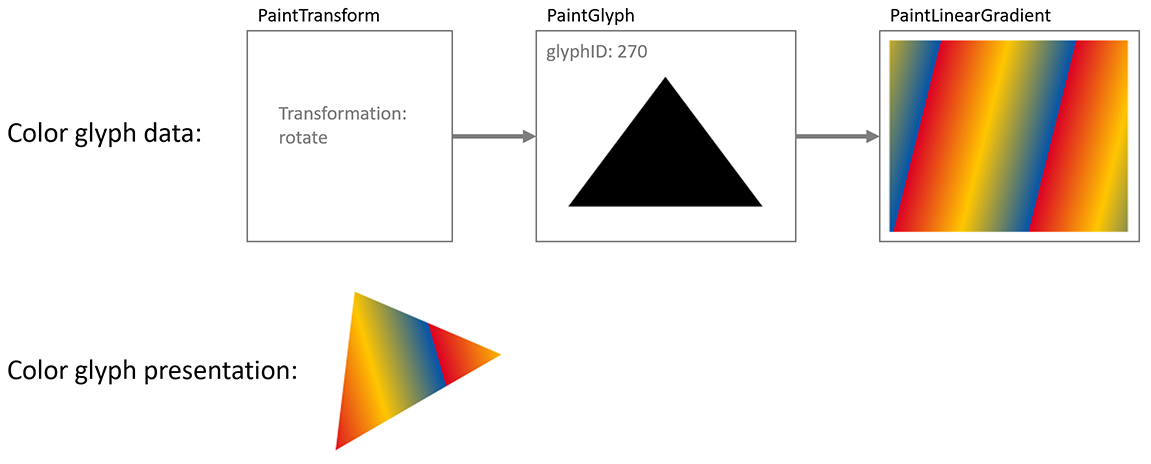
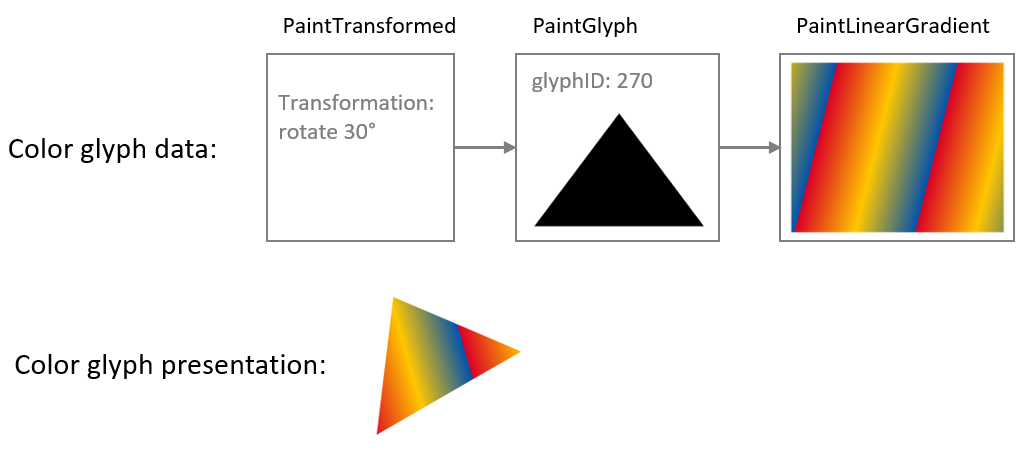
Update Transformations per PR comments

diff --git a/colr-gradients-spec.md b/colr-gradients-spec.md
@@ -1249,12 +1249,9 @@ A PaintGlyph table on its own does not add content: if there is no child paint t
 **5.7.11.1.5 Transformations**
 
 A PaintTransform table can be used within a color glyph description to apply an
-affine transformation matrix. Supported transformations using a matrix can be a 
-combination of: scale, skew, mirror, rotate, or translate. The transformation is
-applied to all nested paints in the child sub-graph, including a nested sub-graph
-referenced using a PaintColrGlyph table (see 5.7.11.1.7.3).
-
-NOTE: Affine transformations have the property that parallel lines remain parallel.
+affine transformation matrix. Transformations supported by a matrix can be a
+combination of scale, skew, mirror, rotate, or translate. The transformation is
+applied to all nested paints in the child sub-graph.
 
 The effect of a PaintTransform table is illustrated in figure 5.21: a PaintTransform is used to specify a rotation, and both the glyph outline and gradient in the sub-graph are rotated.
 
@@ -1262,7 +1259,7 @@ The effect of a PaintTransform table is illustrated in figure 5.21: a PaintTrans
 
 **Figure 5.21 A rotation transformation rotates the fill content defined by the child sub-graph.**
 
-If another PaintTransform table occurs within the child sub-graph of the first PaintTransform table, then the other PaintTransform also applies to its child sub-graph. For the sub-sub-graph, the two transformations are combined. To illustrate this, the example in figure 5.21 is extended in figure 5.22 by inserting a mirroring transformation between the PaintGlyph and PaintLinearGradient tables: the glyph outline is rotated as before, but the gradient is mirrored in its (pre-rotation) y-axis as well as being rotated.
+If another PaintTransform table occurs within the child sub-graph of the first PaintTransform table, then the other PaintTransform also applies to its child sub-graph. For the sub-sub-graph, the two transformations are combined. To illustrate this, the example in figure 5.21 is extended in figure 5.22 by inserting a mirroring transformation between the PaintGlyph and PaintLinearGradient tables: the glyph outline is rotated as before, but the gradient is mirrored in its (pre-rotation) y-axis as well as being rotated. Notice that both visible elements—the shape and the gradient fill—are affected by the rotation, but only the gradient is affected by the mirroring.
 
 ![Combined effects of a transformation nested within the child sub-graph of another transformation.](images/colr_transform_glyph_transform_gradient.png)
 
@@ -1270,9 +1267,9 @@ If another PaintTransform table occurs within the child sub-graph of the first P
 
 The affine transformation is specified in a PaintTransform table as matrix elements. See <span style="color:red">5.7.11.2.x</span> for format details.
 
-Whereas the PaintTransformed table supports several types of transforms, the PaintRotate and PaintSkew tables support specific transformations: rotation and skew. The significant difference of these paint formats is that rotations and skews are specified as angles, in counter-clockwise degrees. In many cases, specifying the rotation or skew as an angle can be more convenient. It can also have a signficant benefit in variable fonts if an angle of skew or rotation needs to vary: it is much easier to implement variation of angles when specified directly than when specified using matrix elements.
+Whereas the PaintTransformed table supports several types of transforms, the PaintRotate and PaintSkew tables support specific transformations: rotation and skew. The significant difference of these paint formats is that rotations and skews are specified as angles, in counter-clockwise degrees.
 
-The PaintRotate and PaintSkew tables also provide another advantage for these specific types of transformation, compared to the PaintTransformed table. Rotations or skews implemented with a matrix are always relative to the origin. To get the desired result using only PaintTransformed tables, a rotation or skew matrix might need preceding and following translations to shift the origin when the rotation or skew is applied. In contrast, the PaintRotate and PaintSkew tables allow a center of rotation to be specified directly.
+NOTE: Specifying the rotation or skew as an angle can have a signficant benefit in variable fonts if an angle of skew or rotation needs to vary, since it is easier to implement variation of angles when specified directly rather than as matrix elements. This is because the matrix elements for a rotation or skew are the sine, cosine or tangent of the rotation angle, which do not change in linear proportion to the angle. To achieve a linear variation of rotation using matrix elements would require approximating the variation using multiple delta sets.
 
 **5.7.11.1.6 Compositing and blending**
 
